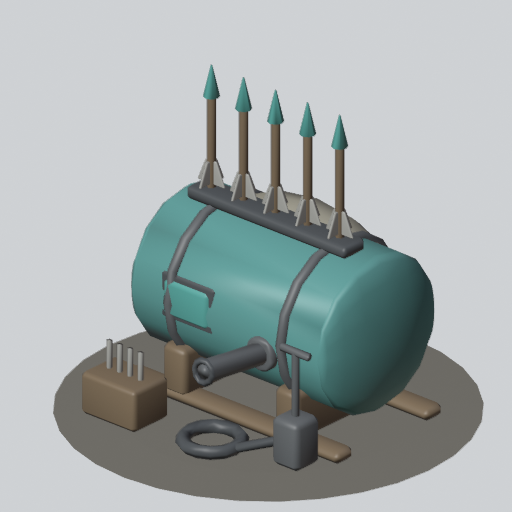
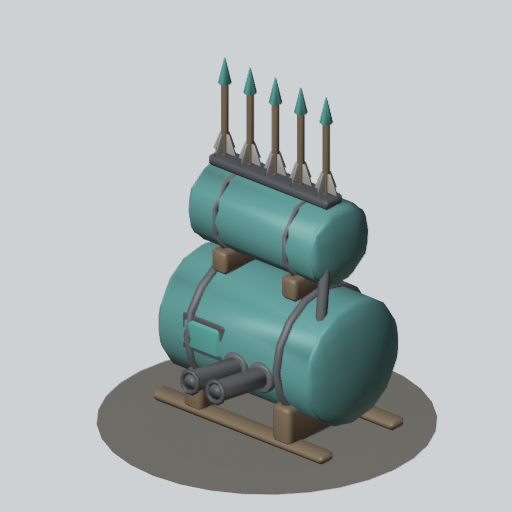
art: Tranq Station bolder upgrades - S1 a second tank stacked on top carrying the dart rack, twin launchers; S2 a crown of glowing ice crystals in a brass collar, brass bands, frosted base (#443)

Changed region(s): [[0.0938, 0.125, 0.9688, 1.0]]

diff --git a/tools/art/models/tower/_chiller.py b/tools/art/models/tower/_chiller.py
@@ -4,10 +4,11 @@ Authored from the base (y 0) in Roblox studs; front = -Z (_kit conventions).
 
 Stage 0 (tiers 0-2): tank with steel bands and domed ends, cradle, a glowing vial window,
                      three darts in the rack, the launcher pipe.
-Stage 1 (tier 3):    five darts, a canvas cover strapped over the tank's back, a hand pump,
-                     a coil of hose, a crate of spare darts.
-Stage 2 (tier 5):    brass bands and fittings, a brass pressure gauge and valve wheel, a rack
-                     of glowing vials, ice crystals frosting the base.
+Stage 1 (tier 3):    a second tank stacked on top (saddles, steel bands, a feed pipe) carrying
+                     the dart rack with five darts, twin launcher pipes.
+Stage 2 (tier 5):    a cluster of big glowing ice crystals growing out of the upper tank in a
+                     brass collar (the crown), brass bands and fittings, a brass gauge and
+                     valve wheel, ice crystals frosting the base.
 """
 
 import importlib.util
@@ -25,6 +26,22 @@ ICE = (190, 232, 240)
 TY, TZ, TR, TL = 1.05, 0.2, 0.8, 2.3  # tank: axis height, axis z, radius, length (along x)
 
 
+UR, UL = 0.52, 1.9  # stage 1+: the upper tank's radius and length
+UY = TY + TR + 0.14 + UR  # its axis height (it rests on two saddles on the lower tank)
+
+
+def darts(k, xs, base_y, z, bev=0.01):
+    shafts, tips, fl = [], [], []
+    for x in xs:
+        shafts.append(K.rod((x, base_y - 0.05, z), (x, base_y + 1.05, z), 0.045, 6))
+        tips.append(K.rod((x, base_y + 1.0, z), (x, base_y + 1.32, z), 0.08, 8, top=0.1))
+        fl += [K.rbox((x, base_y + 0.22, z), (0.34, 0.24, 0.03), bevel=bev, taper=(0.4, 1.0)),
+               K.rbox((x, base_y + 0.22, z), (0.03, 0.24, 0.34), bevel=bev, taper=(1.0, 0.4))]
+    k.add("wood", *shafts)
+    k.add("glow", *tips)
+    k.add("fletch", *fl)
+
+
 def build(lp, stage):
     k = K.Kit(lp)
     band_group = []
@@ -32,7 +49,8 @@ def build(lp, stage):
     # the tank (along x) with domed ends
     k.add("body", K.rod((-TL / 2, TY, TZ), (TL / 2, TY, TZ), TR, 16),
           *[K.ell((sx * TL / 2, TY, TZ), (0.2, TR, TR), 16, 8) for sx in (-1, 1)])
-    band_group += [K.ring_along((sx * 0.7, TY, TZ), (sx * 0.7 + 1, TY, TZ), TR, 0.06, 16, 5) for sx in (-1, 1)]
+    seg = (16, 5) if stage < 2 else (14, 3)  # (stage 2's brass bands: lighter)
+    band_group += [K.ring_along((sx * 0.7, TY, TZ), (sx * 0.7 + 1, TY, TZ), TR, 0.06, *seg) for sx in (-1, 1)]
 
     # wooden cradle: two saddles on two skids
     k.add("wood", *[K.rbox((sx * 0.7, 0.33, TZ), (0.32, 0.5, 1.5), bevel=0.06) for sx in (-1, 1)],
@@ -43,57 +61,56 @@ def build(lp, stage):
     k.add("glow", K.rbox((0.5, TY + 0.05, front + 0.02), (0.55, 0.36, 0.08), bevel=0.04))
     k.add("dark", K.rbox((0.5, TY + 0.05, front + 0.05), (0.66, 0.47, 0.06), bevel=0.04))
 
-    # dart rack on top
-    rack_y = TY + TR + 0.05
-    k.add("dark", K.rbox((0, rack_y, TZ - 0.1), (2.0, 0.14, 0.3), bevel=0.04))
-    xs = (-0.6, 0.0, 0.6) if stage == 0 else (-0.8, -0.4, 0.0, 0.4, 0.8)
-    shafts, tips, fl = [], [], []
-    for x in xs:
-        z = TZ - 0.1
-        shafts.append(K.rod((x, rack_y - 0.05, z), (x, rack_y + 1.05, z), 0.045, 6))
-        tips.append(K.rod((x, rack_y + 1.0, z), (x, rack_y + 1.32, z), 0.08, 8, top=0.1))
-        fl += [K.rbox((x, rack_y + 0.22, z), (0.34, 0.24, 0.03), bevel=0.01, taper=(0.4, 1.0)),
-               K.rbox((x, rack_y + 0.22, z), (0.03, 0.24, 0.34), bevel=0.01, taper=(1.0, 0.4))]
-    k.add("wood", *shafts)
-    k.add("glow", *tips)
-    k.add("fletch", *fl)
+    if stage == 0:
+        # dart rack on top
+        rack_y = TY + TR + 0.05
+        k.add("dark", K.rbox((0, rack_y, TZ - 0.1), (2.0, 0.14, 0.3), bevel=0.04))
+        darts(k, (-0.6, 0.0, 0.6), rack_y, TZ - 0.1)
+    else:
+        # a second, smaller tank stacked on top on two saddles, banded; the dart rack on it
+        k.add("body", K.rod((-UL / 2, UY, TZ), (UL / 2, UY, TZ), UR, 12),
+              *[K.ell((sx * UL / 2, UY, TZ), (0.14, UR, UR), 10, 5) for sx in (-1, 1)])
+        k.add("wood", *[K.rbox((sx * 0.55, TY + TR + 0.1, TZ), (0.26, 0.3, 0.9), bevel=0.05) for sx in (-1, 1)])
+        band_group += [K.ring_along((sx * 0.55, UY, TZ), (sx * 0.55 + 1, UY, TZ), UR, 0.05, 10, 3) for sx in (-1, 1)]
+        rack_y = UY + UR + 0.04
+        k.add("dark", K.rbox((0, rack_y, TZ - 0.05), (1.9, 0.14, 0.3), bevel=0.04))
+        darts(k, (-0.8, -0.4, 0.0, 0.4, 0.8) if stage == 1 else (-0.85, -0.55, 0.55, 0.85), rack_y, TZ - 0.05, bev=0)
+        # a feed pipe from the upper tank down into the lower one
+        k.add("metal", K.rod((-UL / 2 - 0.02, UY - 0.1, TZ - 0.25), (-TL / 2 + 0.1, TY + 0.3, TZ - 0.45), 0.07, 6))
 
-    # the dart launcher: a pipe out of the tank's front; its mouth is the firing point
-    a, b = (-0.45, TY - 0.15, front + 0.05), (-0.45, TY - 0.05, -1.4)
-    k.add("metal", K.rod(a, b, 0.11, 10), K.cyl((a[0], a[1], front + 0.02), 0.18, 0.12, 10, rot=(90, 0, 0)))
-    k.add("dark", K.ring_along(b, K.along(b, a, -1), 0.11, 0.035, 10, 4), piece="muzzle", role="muzzle")
+    # the dart launcher: a pipe out of the tank's front (stage 1+: twin pipes); the first
+    # one's mouth is the firing point
+    pipes = [-0.45] if stage == 0 else [-0.45, -0.05]
+    for i, x in enumerate(pipes):
+        a, b = (x, TY - 0.15, front + 0.05), (x, TY - 0.05, -1.4)
+        r = 0.11 if stage == 0 else 0.13
+        k.add("metal", K.rod(a, b, r, 10), K.cyl((a[0], a[1], front + 0.02), r + 0.07, 0.12, 10, rot=(90, 0, 0)))
+        ring = K.ring_along(b, K.along(b, a, -1), r, 0.035, 10, 4)
+        if i == 0:
+            k.add("dark", ring, piece="muzzle", role="muzzle")
+        else:
+            k.add("dark", ring)
 
     brass = []
-    if stage >= 1:
-        # canvas cover strapped over the tank's back half
-        k.add("canvas", K.ell((0, TY + 0.05, TZ + 0.22), (TL / 2 + 0.08, TR + 0.06, TR * 0.85), 16, 8))
-        # hand pump at the left end
-        k.add("metal", K.rbox((-1.15, 0.35, -0.9), (0.35, 0.5, 0.35), bevel=0.06),
-              K.rod((-1.15, 0.6, -0.9), (-1.15, 1.25, -0.9), 0.04, 6),
-              K.rod((-1.32, 1.25, -0.9), (-0.98, 1.25, -0.9), 0.04, 6))
-        # a coil of hose lying in front, a crate of spare darts at the front-right
-        k.add("dark", K.ring((-0.2, 0.08, -1.0), 0.28, 0.07, 14, 5),
-              K.rod((-0.48, 0.08, -1.0), (-1.0, 0.3, -0.9), 0.05, 6))
-        k.add("wood", K.rbox((0.85, 0.22, -1.05), (0.7, 0.44, 0.5), bevel=0.05))
-        k.add("fletch", *[K.rod((0.65 + 0.13 * i, 0.4, -1.05), (0.65 + 0.13 * i, 0.72, -1.05), 0.03, 5) for i in range(4)])
-
     if stage >= 2:
         brass += band_group
         band_group = []
-        # brass pressure gauge on top-left, a valve wheel at the right end
-        brass += [K.cyl((-0.85, rack_y + 0.12, TZ + 0.3), 0.2, 0.08, 12, rot=(90, 0, 0)),
-                  K.rod((-0.85, rack_y - 0.05, TZ + 0.3), (-0.85, rack_y + 0.05, TZ + 0.3), 0.05, 6),
-                  K.ring((TL / 2 + 0.12, TY + 0.2, TZ), 0.22, 0.04, 12, 4, rot=(0, 0, 90)),
-                  K.cyl((-0.45, TY - 0.13, front - 0.15), 0.14, 0.1, 10, rot=(90, 0, 0))]
-        k.add("glass", K.cyl((-0.85, rack_y + 0.12, TZ + 0.255), 0.15, 0.02, 12, rot=(90, 0, 0), bevel=0))
-        # a rack of glowing vials behind the crate
-        k.add("dark", K.rbox((0.85, 0.5, -0.68), (0.7, 0.08, 0.16), bevel=0.02))
-        k.add("glow", *[K.rod((0.62 + 0.15 * i, 0.55, -0.68), (0.62 + 0.15 * i, 0.82, -0.68), 0.045, 6) for i in range(4)])
+        # the crown: a cluster of big glowing ice crystals growing out of the upper tank
+        cy = UY + UR - 0.05
+        k.add("glow", K.rod((0, cy, TZ - 0.05), (0.0, 4.95, TZ - 0.05), 0.32, 6, top=0.06),
+              K.rod((0.05, cy, TZ - 0.05), (-0.4, 4.25, TZ - 0.25), 0.22, 6, top=0.08),
+              K.rod((0.0, cy, TZ - 0.05), (0.4, 4.15, TZ + 0.15), 0.21, 6, top=0.08),
+              K.rod((0.0, cy, TZ), (0.08, 3.9, TZ + 0.45), 0.17, 5, top=0.1),
+              K.rod((0.0, cy, TZ - 0.1), (-0.05, 3.8, TZ - 0.55), 0.16, 5, top=0.1), piece="crystal")
+        brass.append(K.cyl((0, cy, TZ - 0.05), 0.44, 0.16, 10, bevel=0.03))  # its brass collar
+        # brass pressure gauge on the lower tank's top-left, a valve wheel at the right end
+        brass += [K.cyl((-1.0, TY + TR + 0.12, TZ - 0.3), 0.2, 0.08, 10, rot=(90, 0, 0)),
+                  K.ring((TL / 2 + 0.12, TY + 0.2, TZ), 0.22, 0.04, 10, 3, rot=(0, 0, 90))]
         # ice crystals frosting the base
         ice = []
-        for x, z, h, lean in ((-1.3, 0.9, 0.55, 0.15), (-1.1, 1.15, 0.4, -0.1), (1.3, -0.4, 0.5, 0.12),
-                              (1.1, 0.95, 0.35, 0.1), (-0.95, -1.25, 0.45, -0.12)):
-            ice.append(K.rod((x, 0.06, z), (x + lean, h, z + lean * 0.5), 0.13, 5, top=0.05))
+        for x, z, h, lean in ((-1.3, 0.9, 0.75, 0.15), (-1.1, 1.15, 0.5, -0.1), (1.3, -0.4, 0.7, 0.12),
+                              (-0.95, -1.25, 0.6, -0.12), (0.9, -1.2, 0.5, 0.1)):
+            ice.append(K.rod((x, 0.06, z), (x + lean, h, z + lean * 0.5), 0.15, 5, top=0.05))
         k.add("ice", *ice)
     if band_group:
         k.add("metal", *band_group)
@@ -104,4 +121,6 @@ def build(lp, stage):
         "body": TEAL, "wood": K.WOOD, "dark": (50, 54, 58), "metal": K.METAL, "glow": TIP,
         "fletch": FLETCH, "canvas": K.CANVAS, "brass": K.BRASS, "glass": (235, 240, 235), "ice": ICE,
     }
+    if stage >= 2:
+        colors["glow"] = (150, 236, 255)  # the tier-5 frost: icy white-blue glow (tips and crystals)
     return k.model("11d", colors, "CHILLER", stage)
